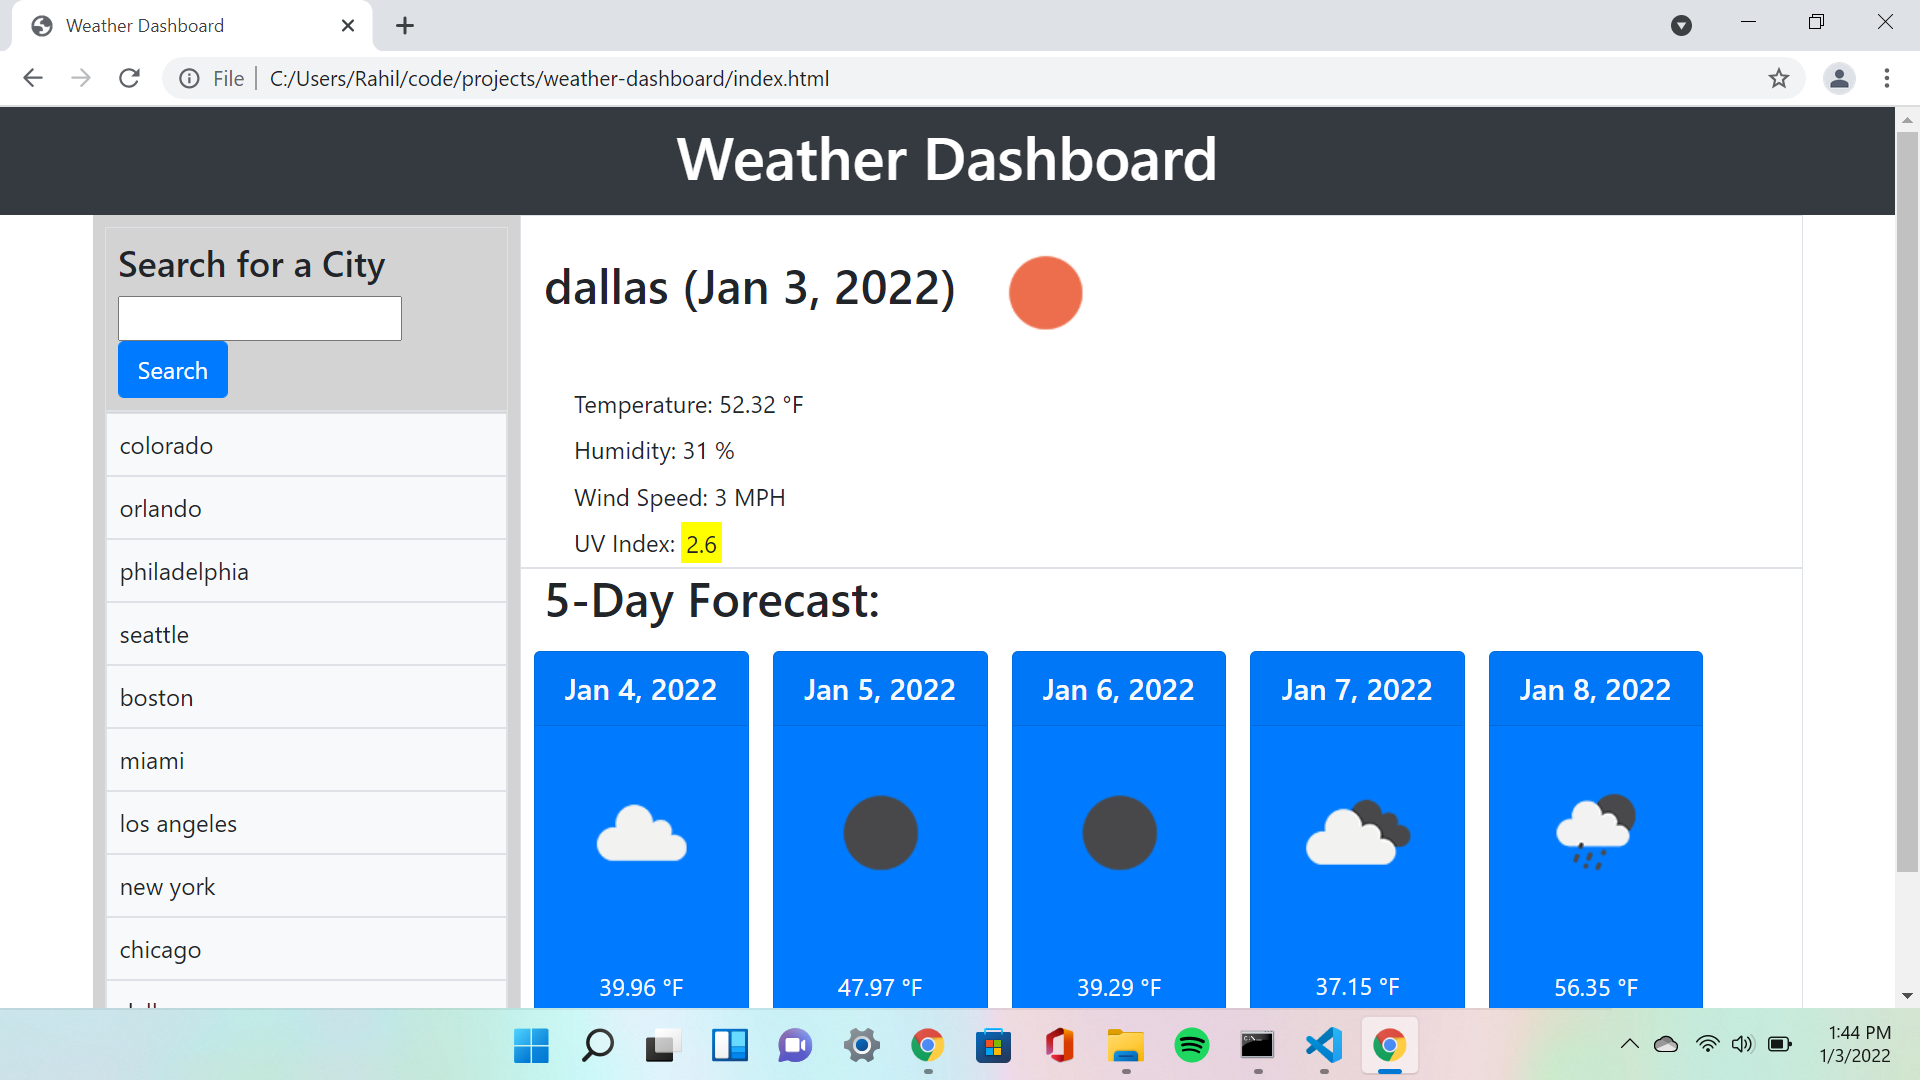
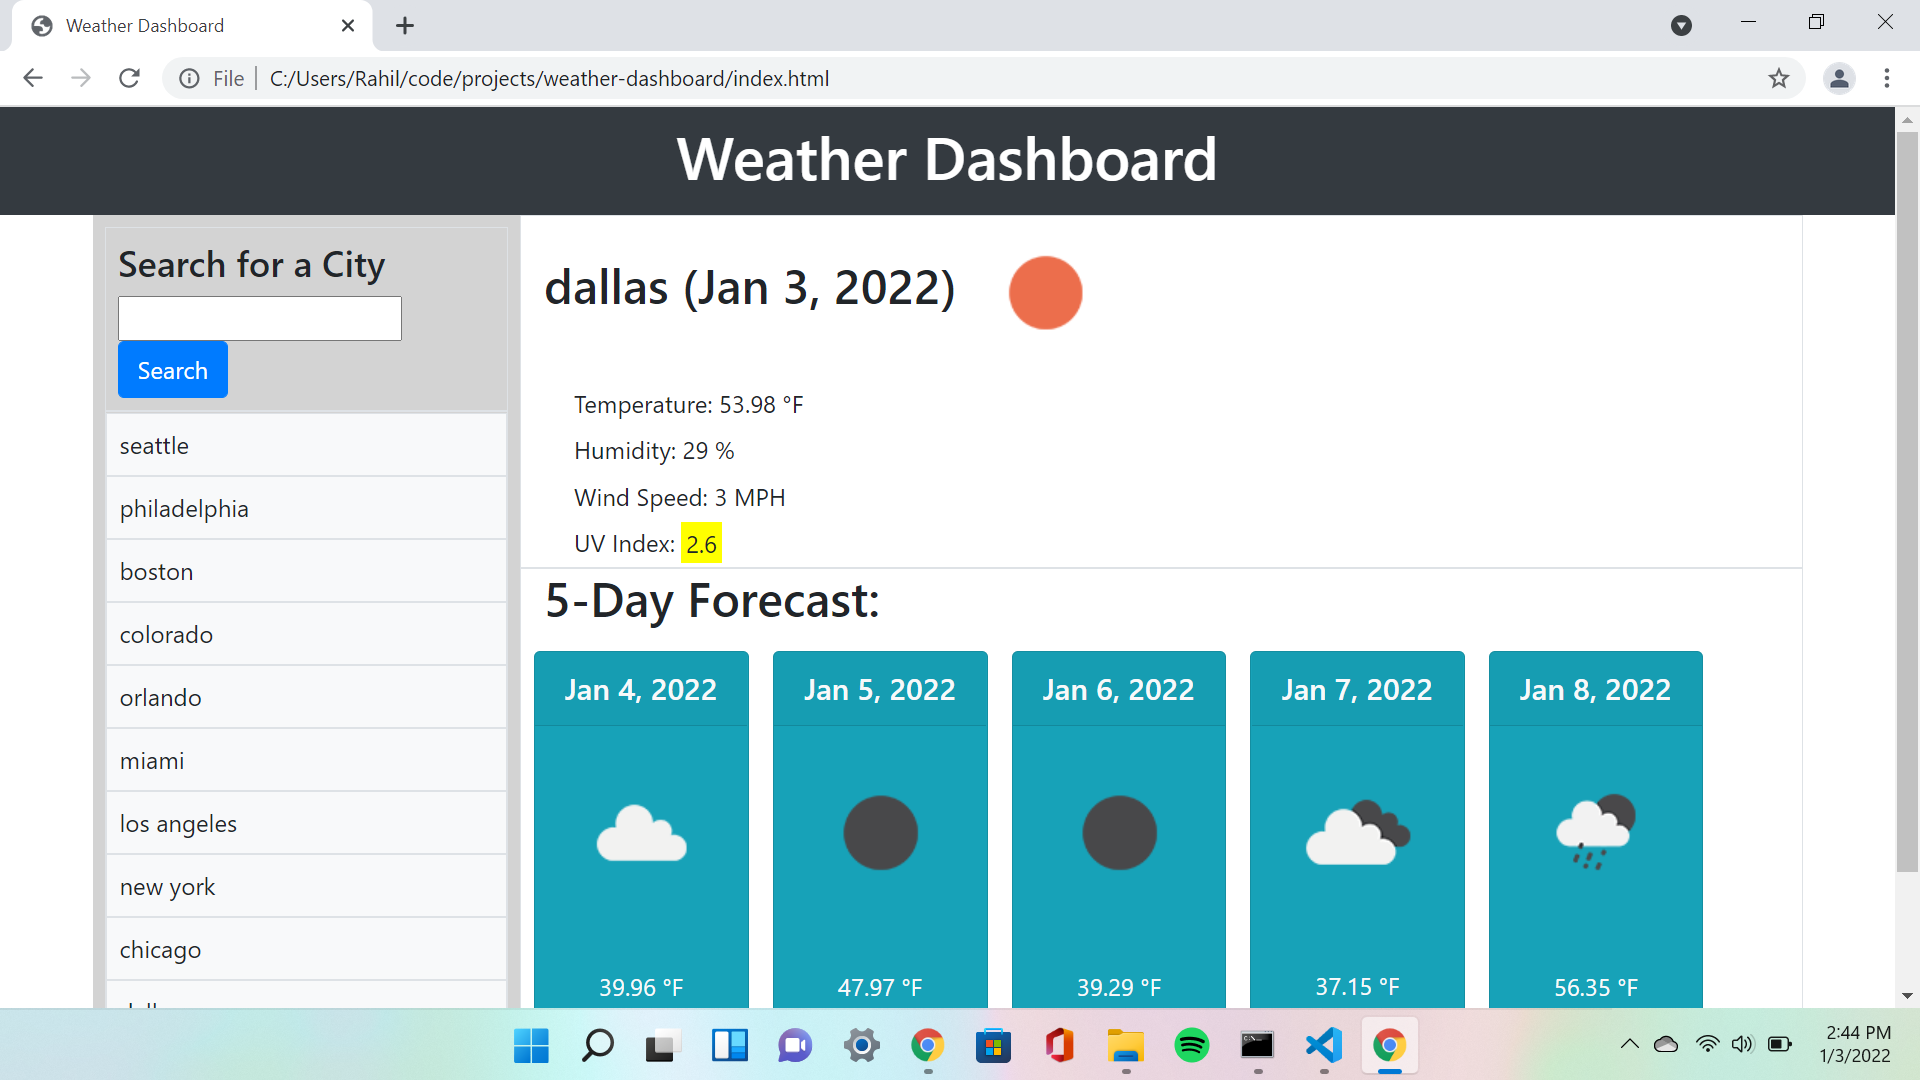
cleaned code

diff --git a/assets/js/logic.js b/assets/js/logic.js
@@ -1,7 +1,7 @@
 var cities = [];
-var cityFormEl=document.querySelector("#city-search-form");
-var cityInputEl=document.querySelector("#city");
-var weatherContainerEl=document.querySelector("#weather-container");
+var cityFormEl = document.querySelector("#city-search-form");
+var cityInputEl = document.querySelector("#city");
+var weatherContainerEl = document.querySelector("#weather-container");
 var citySearchInputEl = document.querySelector("#searched-city");
 var forecastTitle = document.querySelector("#forecast");
 var forecastContainerEl = document.querySelector("#fiveday-container");
@@ -143,7 +143,7 @@ var display5Day = function(weather) {
         
        
        var forecastEl=document.createElement("div");
-       forecastEl.classList = "card bg-primary text-light m-2";
+       forecastEl.classList = "card bg-info text-light m-2";
 
        // date element
        var forecastDate = document.createElement("h5")

diff --git a/index.html b/index.html
@@ -30,7 +30,7 @@
                             <div id="weather-container" class="list-group"></div>
                         </div>  
                     </div>
-                    <div class="row border" id="five-day-forecast">
+                    <div class="row border" id="fiveday-forecast">
                             <h2 class="col-12" id="forecast"></h2>
                             <div class="d-flex" id="fiveday-container"></div>
                     </div>  
